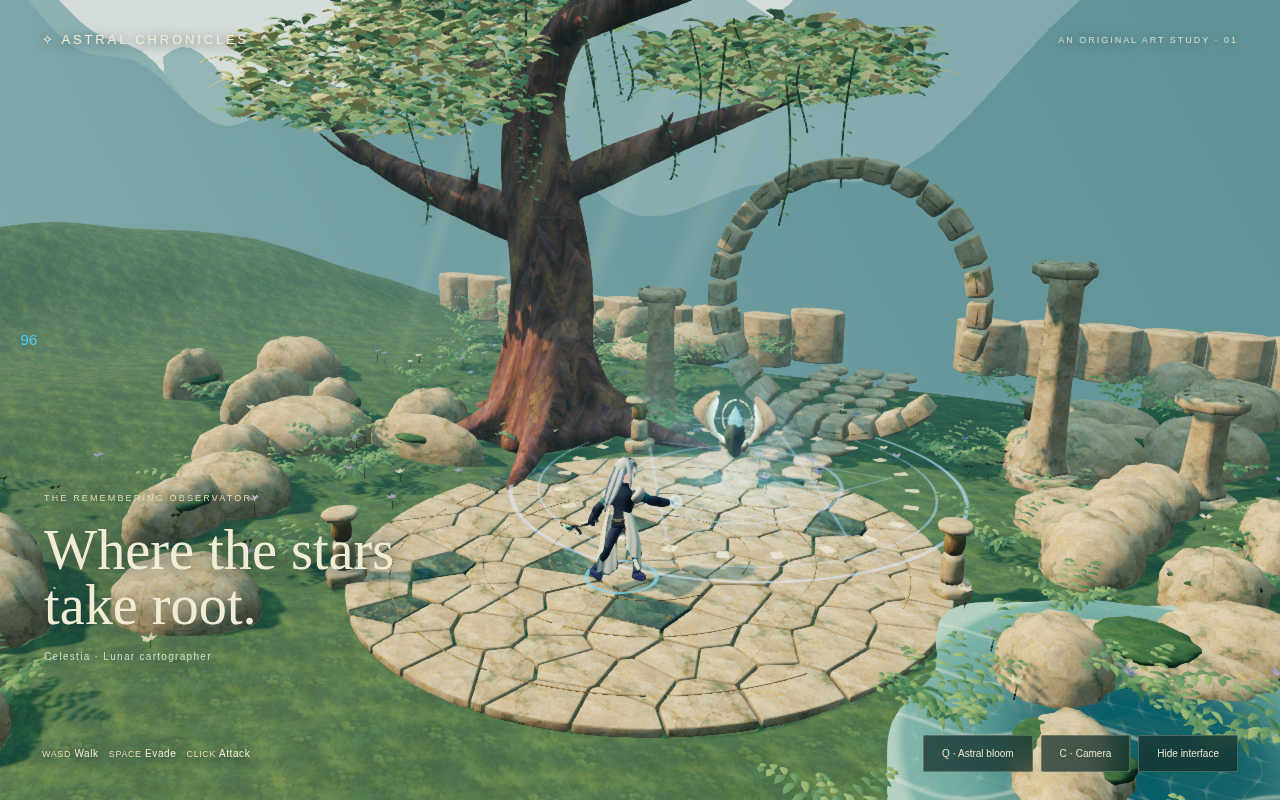
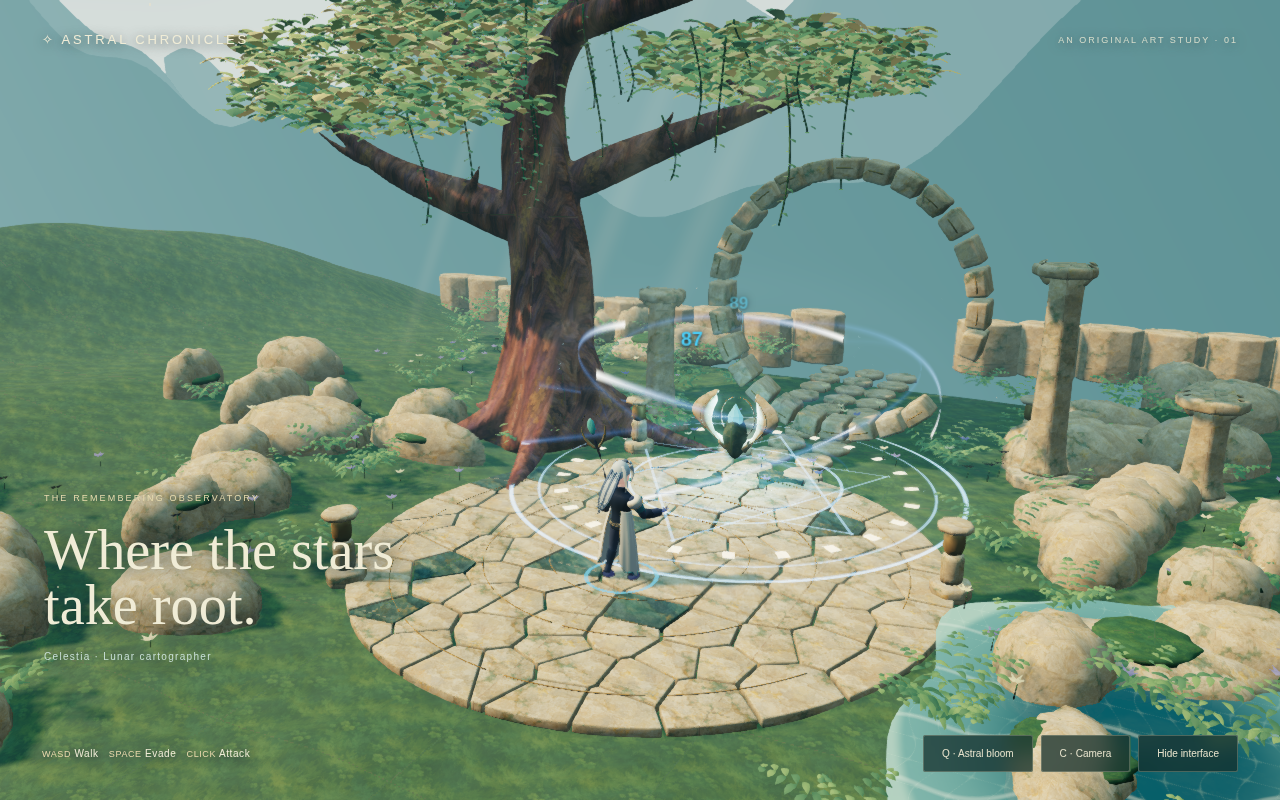
review: stabilize browser capture and correct existing input hints

diff --git a/atelier.html b/atelier.html
@@ -1,1 +1,1 @@
-<!doctype html><html lang="en"><head><meta charset="UTF-8"><meta name="viewport" content="width=device-width, initial-scale=1"><title>Astral Chronicles — The Remembering Observatory</title></head><body><div id="app"><canvas id="game-canvas"></canvas><div id="damage-layer"></div><main id="atelier-ui"><header><a href="/">✧ ASTRAL CHRONICLES</a><span>AN ORIGINAL ART STUDY · 01</span></header><section class="caption"><small>THE REMEMBERING OBSERVATORY</small><h1>Where the stars<br>take root.</h1><p>Celestia · Lunar cartographer</p></section><div id="loading" role="status">Opening the garden…</div><footer><div><span>WASD</span> Walk &nbsp; <span>SPACE</span> Evade &nbsp; <span>CLICK</span> Attack</div><nav><button id="cast">Q · Astral bloom</button><button id="camera">C · Camera</button><button id="clean">Hide interface</button></nav></footer></main></div><script type="module" src="/src/atelier-main.ts"></script></body></html>
+<!doctype html><html lang="en"><head><meta charset="UTF-8"><meta name="viewport" content="width=device-width, initial-scale=1"><title>Astral Chronicles — The Remembering Observatory</title></head><body><div id="app"><canvas id="game-canvas"></canvas><div id="damage-layer"></div><main id="atelier-ui"><header><a href="/">✧ ASTRAL CHRONICLES</a><span>AN ORIGINAL ART STUDY · 01</span></header><section class="caption"><small>THE REMEMBERING OBSERVATORY</small><h1>Where the stars<br>take root.</h1><p>Celestia · Lunar cartographer</p></section><div id="loading" role="status">Opening the garden…</div><footer><div><span>WASD</span> Walk &nbsp; <span>SHIFT</span> Evade &nbsp; <span>CLICK</span> Attack</div><nav><button id="cast">Q · Astral bloom</button><button id="camera">C · Camera</button><button id="clean">Hide interface</button></nav></footer></main></div><script type="module" src="/src/atelier-main.ts"></script></body></html>

diff --git a/docs/OBSERVATORY_ATELIER.md b/docs/OBSERVATORY_ATELIER.md
@@ -4,7 +4,7 @@
 
 Open `/atelier.html`. The normal Hearthmere game remains `/index.html`. This is an art-focused, single-hero combat sandbox built on `GameEngine`, its existing internal `MoatSlice`, `CharacterRig`, `HeroMotion`, input, combat, damage, sentinel AI and `IsometricCameraController`. It does not implement another gameplay engine, publish geography, migrate saves, or complete World V2 Phase 3.
 
-Controls: WASD/arrows to walk, Space to evade, click for basic attacks, **Q / Astral bloom** for the revised gravity ability, **C / Camera** to cycle cinematic / hero / native isometric cameras, **P** to hide/restore the interface. The page uses an in-memory character and the existing slice's no-save behavior. Reload resets the encounter. It is a desktop review sandbox; it does not yet provide a complete mobile control layout.
+Controls: WASD/arrows to walk, Shift to evade, click for basic attacks, **Q / Astral bloom** for the revised gravity ability, **C / Camera** to cycle cinematic / hero / native isometric cameras, **P** to hide/restore the interface. The page uses an in-memory character and the existing slice's no-save behavior. Reload resets the encounter. It is a desktop review sandbox; it does not yet provide a complete mobile control layout.
 
 ## What the audit found
 
@@ -85,3 +85,7 @@ Rollback: remove the `atelier.html` Vite input/entry, `startObservatoryAtelier` 
 ## Painted atlas provenance
 
 Original generated albedo atlas, 2026-11-09, native ImageGen. No downloaded model or third-party texture. The checked-in PNG and SHA-256 in `manifest.json` are the reproducible source for this build. Prompt intent: a square 2×2 atlas with independently tileable warm umber/violet flowing bark, quiet weathered ivory limestone with teal crevice moss, rich jade/viridian velvet moss and blue-green slate with restrained brass dust; original gouache/watercolor pigments, uniform diffuse lighting, no scene, object, border, labels or material-ball previews. It is sampled as a surface map in the real game, not shown as a prerendered scene.
+
+## Verification record
+
+181 tests pass; production build, asset integrity, documentation/dependency checks and forward/reverse world bakes pass. The existing browser smoke passed all three heroes, grounded navigation and all three opt-in first-arrival roles. One subsequent art movement rerun was invalidated by an external diagnostic viewport resize (which resets input); it is rerun without concurrent interaction. A concurrent World V2 visual-capture run hit a software-rendering frame timeout and is repeated serially. These are recorded as review-infrastructure failures, not ignored as art acceptance.
